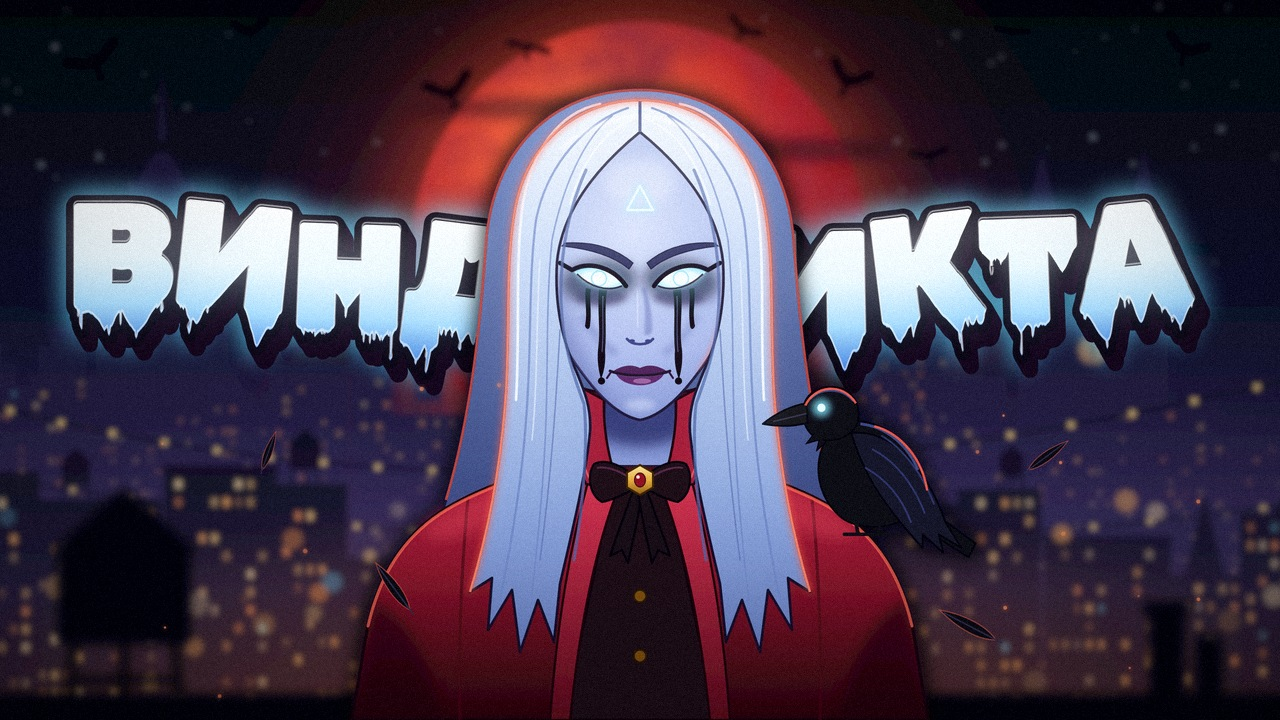
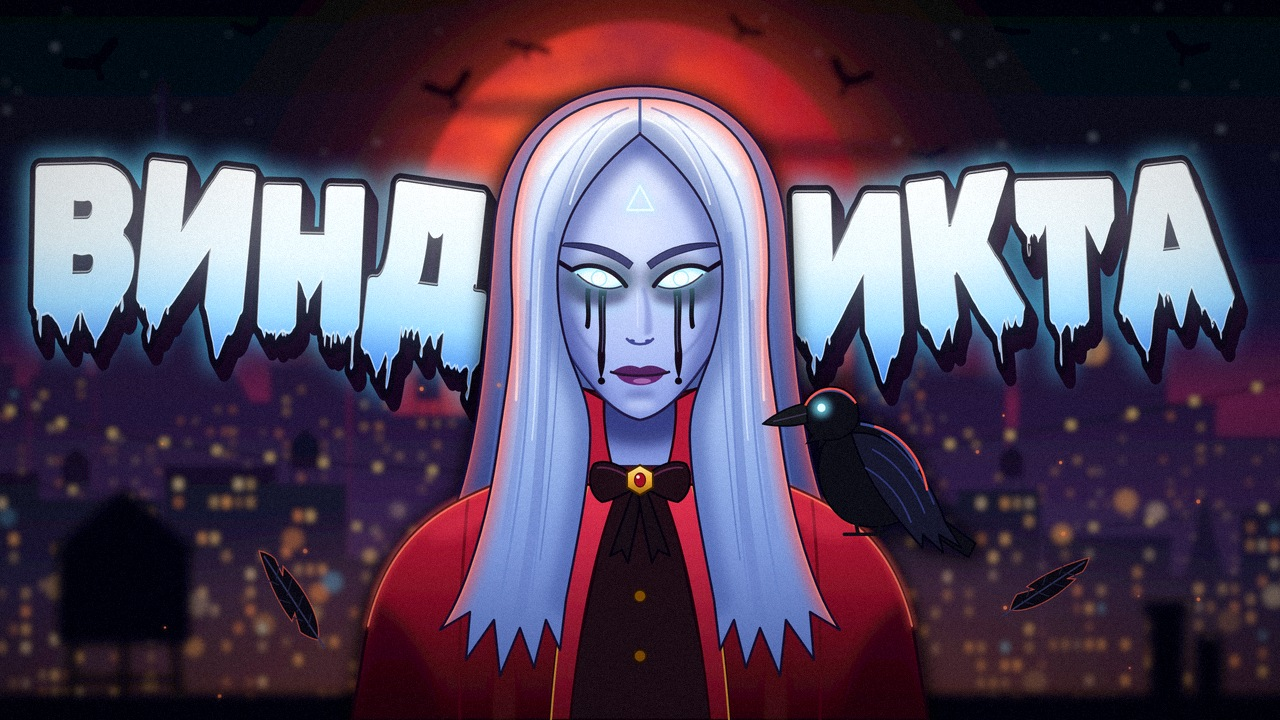
Vindicta thumbnail v4: bigger split title, hair shading, final renders
- Title condensed to 74% and fitted per half (207 px), kept clear of the hair
- Hair cel shading, shine band and soft inner rim light; face hair shadows
- Magenta horizon glow behind the blurred skyline, proper feathers
- +14% saturation in grading; final 1280x720 PNG and JPG committed
- Handoff docs updated

diff --git a/thumbnails/vindicta/build.py b/thumbnails/vindicta/build.py
@@ -172,7 +172,7 @@ def background(rng) -> str:
             '<ellipse cx="720" cy="150" rx="180" ry="8"/><ellipse cx="540" cy="108" rx="130" ry="6"/>'
             '<ellipse cx="300" cy="300" rx="260" ry="9"/><ellipse cx="1000" cy="250" rx="240" ry="9"/></g>']
     # far city + landmarks
-    far = "#1b1838"
+    far = "#1d1533"
     out.append('<g>')
     out += landmarks(far)
     out += skyline(rng, top=(330, 450), width=(40, 105), color=far, win=(2.5, 4, 5, 7), lit=.16,
@@ -188,7 +188,7 @@ def background(rng) -> str:
             py = (1 - t) ** 2 * y0 + 2 * (1 - t) * t * ym + t * t * y1
             out.append(f'<circle cx="{f(px)}" cy="{f(py)}" r="2.6" fill="#ffd98a"/>')
     # mid city
-    mid = "#0e0c20"
+    mid = "#0d0b1d"
     out += skyline(rng, top=(470, 590), width=(60, 140), color=mid, win=(5, 8, 7, 10), lit=.3,
                    roofs={"flat": 3, "step": 1, "tank": 3, "spire": 1})
     out.append('<rect x="-80" y="420" width="1440" height="340" fill="url(#fog)"/>')
@@ -221,25 +221,38 @@ def near_layer() -> str:
 
 
 # ---------------------------------------------------------------- title ----
+# Title halves sit left/right of the hair silhouette (x 494..786 at text height), condensed horizontally
+# because Rubik Wet Paint is wide; the font size is fitted so the wider half spans AVAIL px.
+LEFT_END, RIGHT_START, AVAIL, SQUEEZE, TRACK, MAX_SIZE = 494.0, 786.0, 470.0, .74, -6.0, 240.0
+
+
+def fit_size(left: str, right: str) -> float:
+    font = ImageFont.truetype(str(FONT), 100)
+    need = max(sum(font.getlength(c) for c in w) / 100 for w in (left, right))
+    n = max(len(left), len(right))
+    return min(MAX_SIZE, (AVAIL / SQUEEZE - TRACK * (n - 1)) / need)
+
+
 def title(left: str, right: str, size: float) -> tuple[str, str]:
     """Return (defs, layers) for the split title; left half ends at the hair, right half starts after it."""
     font = ImageFont.truetype(str(FONT), int(size))
-    base, track = 338.0, -4.0
+    base = 338.0
 
     def half(word, anchor, align, tilt, rots, dys):
         widths = [font.getlength(ch) for ch in word]
-        total = sum(widths) + track * (len(word) - 1)
+        total = sum(widths) + TRACK * (len(word) - 1)
         x = anchor - total if align == "end" else anchor
         els = []
         for i, ch in enumerate(word):
             cx, y = x + widths[i] / 2, base + dys[i % len(dys)]
             els.append(f'<text x="{f(x)}" y="{f(y)}" transform="rotate({rots[i % len(rots)]} {f(cx)} {f(y - size * .35)})">'
                        f'{escape(ch)}</text>')
-            x += widths[i] + track
-        return f'<g transform="rotate({tilt} {f(anchor)} {f(base - size * .35)})">{"".join(els)}</g>'
+            x += widths[i] + TRACK
+        return (f'<g transform="rotate({tilt} {f(anchor)} {f(base - size * .35)}) translate({f(anchor)} 0) '
+                f'scale({SQUEEZE} 1) translate({f(-anchor)} 0)">{"".join(els)}</g>')
 
-    glyphs = (half(left, 530, "end", 4, [-4, 2, -2, 3, -1], [0, -7, 5, -3, 4]) +
-              half(right, 750, "start", -4, [3, -3, 2, -2, 1], [4, -5, 6, -2, 3]))
+    glyphs = (half(left, LEFT_END, "end", 4, [-4, 2, -2, 3, -1], [0, -7, 5, -3, 4]) +
+              half(right, RIGHT_START, "start", -4, [3, -3, 2, -2, 1], [4, -5, 6, -2, 3]))
     defs = f"""
     <g id="tg" font-family="Title" font-size="{f(size)}">{glyphs}</g>
     <linearGradient id="tfill" x1="0" y1="{f(base - size * .78)}" x2="0" y2="{f(base + size * .28)}" gradientUnits="userSpaceOnUse">
@@ -257,15 +270,18 @@ def title(left: str, right: str, size: float) -> tuple[str, str]:
 
 
 # ----------------------------------------------------------- foreground ----
-FEATHER = "M 0 0 C 7 -12, 9 -34, 2 -58 C -6 -36, -7 -14, 0 0 Z"
+FEATHER = ("M 0 0 C 9 -10, 13 -32, 7 -60 L 3 -54 L 5 -68 C 3 -74, 0 -77, -2 -79 C -7 -62, -11 -40, -9 -22 "
+           "L -4 -26 L -8 -12 C -6 -7, -3 -3, 0 0 Z")
 
 
 def foreground(rng) -> str:
     out = []
-    for x, y, s, r in [(410, 610, 1.0, -38), (1028, 470, .85, 52), (262, 470, .7, 18), (996, 640, 1.1, -64)]:
+    for x, y, s, r in [(318, 640, 1.35, -32), (1010, 610, 1.2, 58)]:
         out.append(f'<g transform="translate({x} {y}) rotate({r}) scale({s})">'
-                   f'<path d="{FEATHER}" fill="#0b0a14" stroke="#ff6a55" stroke-width="1" stroke-opacity=".55"/>'
-                   f'<path d="M 0 6 L 1.5 -54" stroke="#2c2c4c" stroke-width="1.4"/></g>')
+                   f'<path d="{FEATHER}" fill="#0b0a14" stroke="#ff6a55" stroke-width=".9" stroke-opacity=".6"/>'
+                   f'<path d="M 1 8 L -1 -74" stroke="#34345a" stroke-width="1.3"/>'
+                   f'<path d="M -1 -12 L 6 -19 M -2 -26 L 8 -34 M -2 -40 L 8 -49 M -3 -54 L 5 -62 M -2 -18 L -7 -24 '
+                   f'M -3 -34 L -9 -41 M -3 -50 L -8 -57" stroke="#22223e" stroke-width=".9"/></g>')
     for _ in range(26):
         x, y = rng.uniform(20, W - 20), rng.uniform(380, 700)
         if 330 < x < 950 and y > 430:
@@ -277,8 +293,9 @@ def foreground(rng) -> str:
 # ------------------------------------------------------------- assemble ----
 DEFS = """
 <linearGradient id="sky" x1="0" y1="0" x2="0" y2="720" gradientUnits="userSpaceOnUse">
-  <stop offset="0" stop-color="#04060f"/><stop offset=".35" stop-color="#0a1029"/>
-  <stop offset=".62" stop-color="#1a1636"/><stop offset=".82" stop-color="#3a1a33"/><stop offset="1" stop-color="#5a2230"/>
+  <stop offset="0" stop-color="#04060f"/><stop offset=".3" stop-color="#0a0f28"/>
+  <stop offset=".45" stop-color="#1e1539"/><stop offset=".56" stop-color="#5c1e42"/>
+  <stop offset=".68" stop-color="#3c1736"/><stop offset="1" stop-color="#14091b"/>
 </linearGradient>
 <radialGradient id="moon" cx="600" cy="196" r="270" gradientUnits="userSpaceOnUse">
   <stop offset="0" stop-color="#ffb08a"/><stop offset=".4" stop-color="#f0603f"/>
@@ -294,8 +311,8 @@ DEFS = """
   <feColorMatrix type="matrix" values="0 0 0 0 .33  0 0 0 0 .03  0 0 0 0 .05  0 0 0 -2.4 1.45"/>
 </filter>
 <linearGradient id="haze" x1="0" y1="300" x2="0" y2="760" gradientUnits="userSpaceOnUse">
-  <stop offset="0" stop-color="#3b2f63" stop-opacity="0"/><stop offset=".45" stop-color="#4a3a72" stop-opacity=".35"/>
-  <stop offset="1" stop-color="#2a1d45" stop-opacity=".15"/>
+  <stop offset="0" stop-color="#5a2a5a" stop-opacity="0"/><stop offset=".45" stop-color="#5a2a5a" stop-opacity=".2"/>
+  <stop offset="1" stop-color="#2a1d45" stop-opacity=".1"/>
 </linearGradient>
 <linearGradient id="fog" x1="0" y1="420" x2="0" y2="760" gradientUnits="userSpaceOnUse">
   <stop offset="0" stop-color="#5a4a86" stop-opacity="0"/><stop offset=".5" stop-color="#5a4a86" stop-opacity=".28"/>
@@ -371,6 +388,9 @@ def grade(img: Image.Image, seed: int) -> Image.Image:
     yy, xx = np.mgrid[0:H, 0:W].astype(np.float32)
     d = np.sqrt(((xx - W / 2) / (W / 2)) ** 2 + ((yy - H * .46) / (H / 2)) ** 2)
     a *= (1 - .42 * np.clip(d - .62, 0, 1) ** 1.2)[..., None]
+    # extra saturation so it holds up next to the channel's very saturated thumbnails
+    gray = (a @ np.array([.2126, .7152, .0722], dtype=np.float32))[..., None]
+    a = gray + (a - gray) * 1.14
     a += np.random.default_rng(seed).normal(0, .014, (H, W, 1)).astype(np.float32)
     return Image.fromarray((np.clip(a, 0, 1) * 255 + .5).astype(np.uint8))
 
@@ -387,12 +407,9 @@ def main() -> None:
     ap.add_argument("--html", action="store_true", help="also keep the composed HTML")
     args = ap.parse_args()
 
-    size = args.size
-    if not size:
-        font = ImageFont.truetype(str(FONT), 100)
-        widest = max(font.getlength(args.left), font.getlength(args.right)) / 100
-        size = min(215.0, 480.0 / widest)
-    html = build_html(args.left.upper(), args.right.upper(), size, args.seed)
+    left, right = args.left.upper(), args.right.upper()
+    size = args.size or fit_size(left, right)
+    html = build_html(left, right, size, args.seed)
     args.out.mkdir(parents=True, exist_ok=True)
     if args.html:
         (args.out / f"{args.name}.html").write_text(html, encoding="utf-8")

diff --git a/docs/handoff/VERIFICATION.md b/docs/handoff/VERIFICATION.md
@@ -5,5 +5,11 @@ Environment: Python 3.12.3, Pillow 13.0.0, numpy 2.5.4 (venv at /tmp/thumbvenv),
 
 | Stage | Check | Result |
 | --- | --- | --- |
-| v1 | `python thumbnails/vindicta/build.py --html` | OK in 5.9 s; title size 152 px; PNG 1422 KB, JPG 265 KB; 1280×720 |
-| v1 | Visual review of `out/vindicta_thumbnail.png` | Composition reads; issues listed in STATUS.md |
+| v1 | `python thumbnails/vindicta/build.py --html` | OK in 5.9 s; title 152 px; PNG 1422 KB, JPG 265 KB; 1280×720 |
+| v1 | Visual review | Composition reads; title too small, Д/И hidden behind hair |
+| v2 | Render | OK; title 207 px; PNG 1458 KB, JPG 276 KB |
+| v2 | 2× close-up of the head (x 400–880, y 70–520) | Face, tears, mark, collar and brooch read well; flyaway strands look like blades |
+| v3 | Render after removing flyaways | OK; PNG 1449 KB, JPG 273 KB |
+| v3 | Pasted at 336×189 into the user's channel-grid screenshot | Title legible at feed size, eyes are the focal point; slightly muted next to the other thumbnails |
+| v4 | Render with +14 % saturation | OK; title 207 px; PNG 1463 KB, JPG 274 KB; JPG is 1280×720 RGB; both under YouTube's 2 MB limit |
+| v4 | Visual review | Coat and moon richer, no clipping or banding noticed |

diff --git a/docs/handoff/STATUS.md b/docs/handoff/STATUS.md
@@ -1,8 +1,11 @@
 # Status
 
-- **State:** WIP. v1 of the Vindicta thumbnail renders end to end
-  (`thumbnails/vindicta/out/vindicta_thumbnail.jpg`).
-- **Known v1 issues:** title only 152 px and its inner letters (Д, И) are hidden behind the hair; hair
-  silhouette too uniform; red rim light reads as an outline; background horizon a bit flat; foreground
-  feathers look like stray marks.
-- **Open question for the user:** the actual video title (default text is the hero name ВИНДИКТА).
+- **State:** done, pending the user's feedback. Final thumbnail:
+  `thumbnails/vindicta/out/vindicta_thumbnail.jpg` (upload this) and `.png` (lossless), 1280×720.
+- **Design:** Vindicta bust centred with glowing eyes and black tears, crow familiar on her shoulder, title
+  ВИНД | ИКТА split around her head, blurred Deadlock-style night city (rooftops, water towers, ziplines)
+  under a blood moon.
+- **Assumptions to confirm with the user:** the character is Vindicta (from "Venedikt Dedlok"); the title
+  text is the hero name because the video title was not given.
+- **Limits:** the art is hand-coded vector, so it is cleaner and flatter than the painted thumbnails the
+  channel's artist makes.

diff --git a/docs/handoff/HISTORY.md b/docs/handoff/HISTORY.md
@@ -14,4 +14,10 @@
   city (art-deco tower, gothic spires, water towers, ziplines, warm windows) under a blood moon with a
   Gaussian blur, split title in Rubik Wet Paint (OFL), rendered by headless Chrome at 2x, graded with Pillow
   (bloom, vignette, grain).
-- Checkpoint 1: v1 render (title too small and partly hidden; see STATUS).
+- Checkpoint 1 (82809d2): v1 render; title too small and partly hidden.
+- v2: title condensed to 74 % width and fitted per half (207 px), halves kept clear of the hair; hair got
+  cel shading, an anime shine band and a soft inner rim light; face got hair shadows and cheek shading;
+  magenta horizon glow behind the skyline; two proper feathers instead of four stray marks.
+- v3: removed flyaway strands (they read as white blades at the temples and bars beside the eyes).
+- v4 (final): +14 % saturation in grading so it holds up next to the channel's saturated thumbnails.
+  Final PNG/JPG committed.

diff --git a/docs/handoff/NEXT_STEPS.md b/docs/handoff/NEXT_STEPS.md
@@ -1,7 +1,7 @@
 # Next steps
 
-1. v2 design pass: larger, fully visible title (horizontally condensed Rubik Wet Paint, halves kept clear of
-   the hair); hair flyaways, cel shading and a soft inner rim light; stronger face shading; brighter horizon
-   glow behind the skyline; better feathers.
-2. Check legibility at YouTube grid size next to the channel's existing thumbnails.
-3. Final render, commit the PNG and JPG outputs, share with the user, and offer to swap the title text.
+1. Get the user's verdict and the real title word. Re-render with
+   `uv run thumbnails/vindicta/build.py --left <ЛЕВАЯ> --right <ПРАВАЯ> --name <stem>`
+   (the size auto-fits; keep halves to about 3–5 letters).
+2. Optional tweaks if asked: palette (e.g. icy moon instead of blood moon), a rifle or laser sight for the
+   sniper angle, different crow placement, `--seed` for another city layout.
